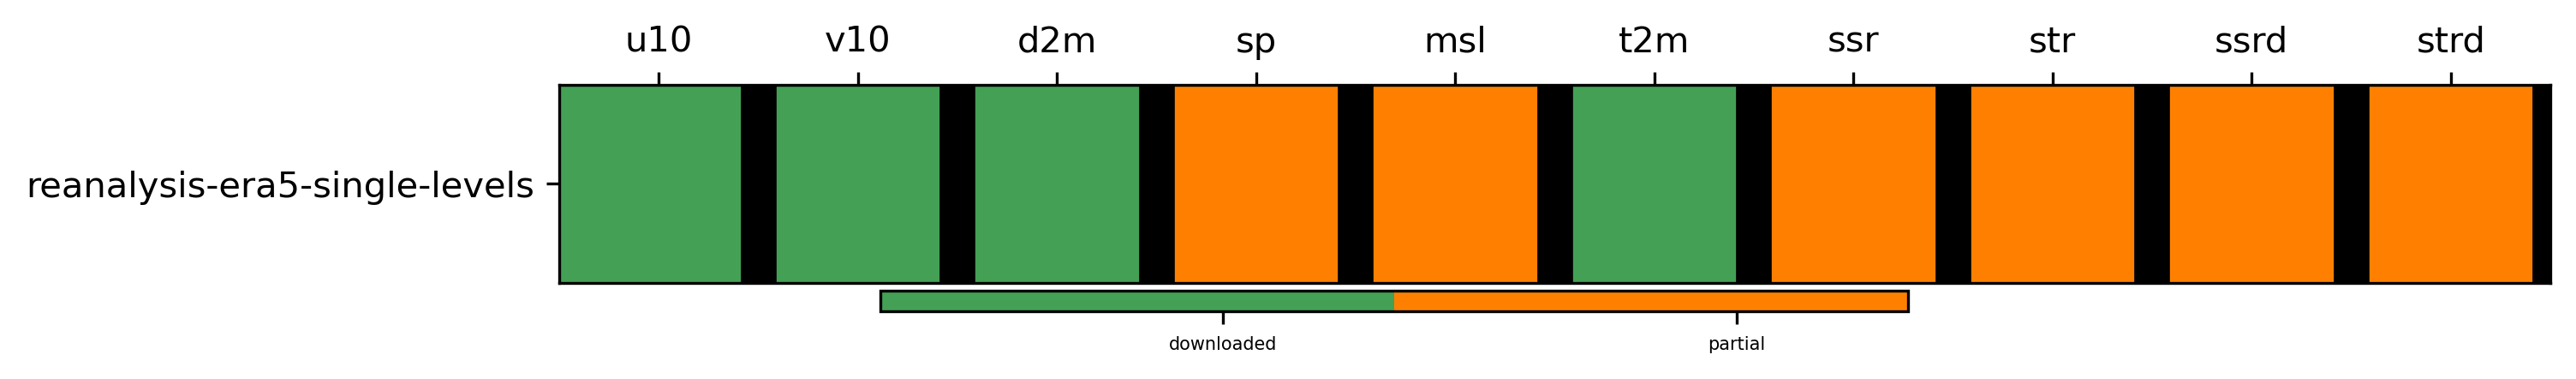
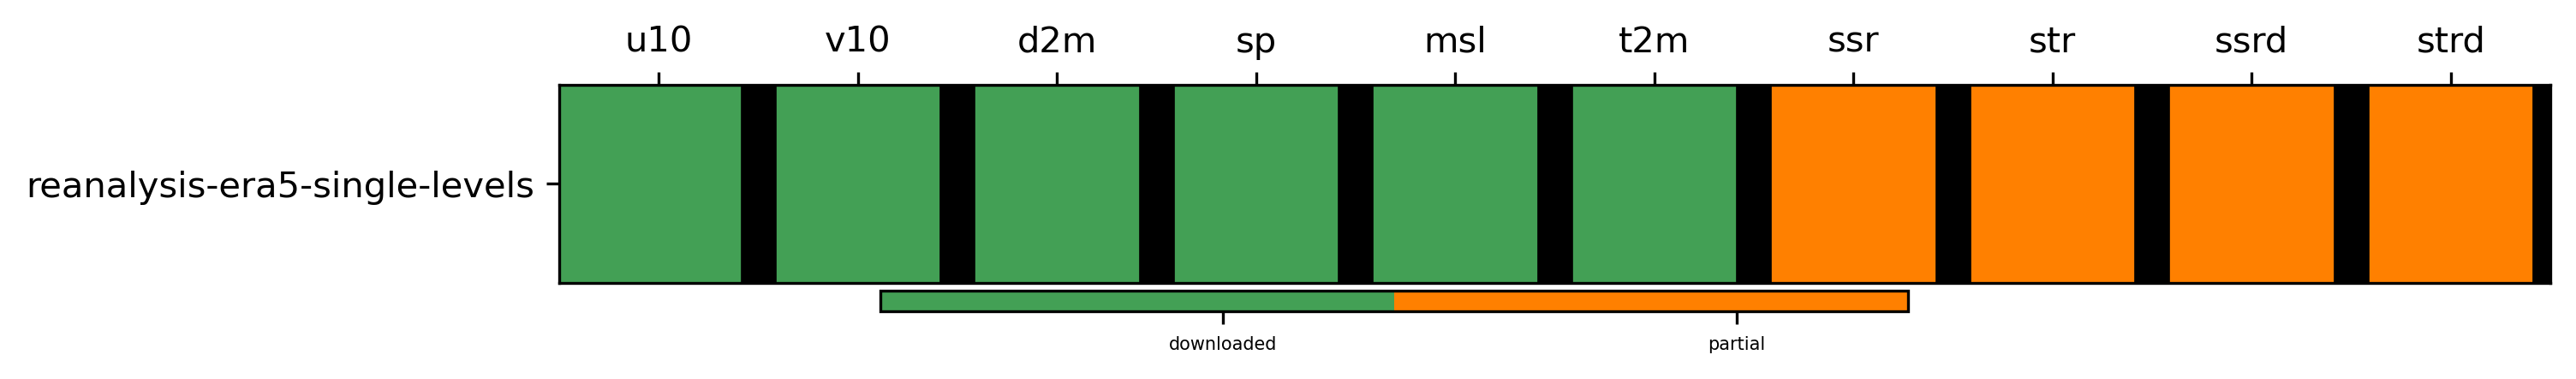
Add concise folder-level READMEs for main workflow directories and scripts modules (#6)
* Initial plan

* docs: add folder-level README documentation

Agent-Logs-Url: https://github.com/SantanderMetGroup/c3s-cds/sessions/aeccf1b4-fe02-44ff-af02-974fadbf1039

* Auto-update catalogues [skip ci]

---------

Changed region(s): [[0.4375, 0.2059, 0.625, 0.7647]]

diff --git a/scripts/README.md b/scripts/README.md
@@ -1,0 +1,16 @@
+# scripts
+
+This folder contains the operational pipeline scripts used to download, process, catalogue, and validate data.
+
+## Subfolders
+- `download/`: request execution and raw data download.
+- `standardization/`: variable harmonization to repository conventions.
+- `derived/`: computation of derived products.
+- `interpolation/`: remapping to target grids.
+- `catalogue/`: catalogue generation and summary artifacts.
+- `utilities/`: shared helpers (paths, logging, Dask/SLURM, dependencies, fixes).
+- `validations/`: automated quality checks used in CI and reporting.
+- `notebooks/`: exploratory examples.
+
+## Workflow fit
+Requests in `../requests/` point to scripts here; outputs are then consolidated in `catalogues/`, visualized in `docs/`, and checked in `validations/`.

diff --git a/scripts/utilities/README.md b/scripts/utilities/README.md
@@ -1,0 +1,15 @@
+# scripts/utilities
+
+Shared helpers used across download, derived, interpolation, catalogue, and validation scripts.
+
+## What it contains
+- Path and request helpers (`utils.py`, `utils_download.py`).
+- Logging and execution helpers (`logging_utils.py`, `run_with_memlog.py`).
+- Dask/SLURM helpers (`utils_dask_slurm.py`).
+- Derived-pipeline dependency and processing helpers (`derived_variable_dependencies.py`, `utils_derived_pipeline.py`).
+- Fix-oriented helpers (`utils_fixes.py`).
+- `create_folder_structure.py` to create the full directory tree from `requests/*.csv` (supports `--dry-run`) using:
+  `{base_path}/{product_type}/{dataset}/{temporal_resolution}/{interpolation}/{variable}/`.
+
+## Role in the workflow
+- Centralizes reusable logic so dataset-specific scripts stay focused on data operations.

diff --git a/docs/README.md b/docs/README.md
@@ -1,0 +1,13 @@
+# docs
+
+This folder contains the GitHub Pages site used to browse catalogues and dashboard summaries.
+
+## What it contains
+- Static pages (`index.html`, `dataset.html`, `catalogue-viewer.html`).
+- Frontend assets (`script.js`, `style.css`).
+- `data/`: exported catalogue CSV files used by the dashboard.
+- `img/`: rendered assets (heatmaps and validation figures).
+
+## Role in the workflow
+- Publishes a navigable view of catalogue status and dataset coverage.
+- Mirrors outputs generated from `catalogues/` and `validations/` for web visualization.

diff --git a/requests/README.md b/requests/README.md
@@ -1,0 +1,13 @@
+# requests
+
+This folder contains one CSV file per dataset/catalogue request used by the pipeline.
+
+## What it contains
+- Request inventory files (for example `reanalysis-era5-single-levels.csv`, `satellite-sea-level-global.csv`).
+- Per-variable rows with request and processing metadata (dataset, variable, output/input paths, product type, temporal resolution, interpolation, script).
+
+## Role in the workflow
+- Defines what to download from CDS (or related sources).
+- Drives directory creation (`scripts/utilities/create_folder_structure.py`).
+- Points to the processing scripts used for download, derived products, and interpolation.
+- Feeds catalogue and validation steps downstream.

diff --git a/provenance/README.md b/provenance/README.md
@@ -1,0 +1,11 @@
+# provenance
+
+This folder stores provenance JSON files for supported datasets.
+
+## What it contains
+- One JSON per dataset (for example `reanalysis-era5-single-levels.json`).
+- Variable-level metadata and source/provenance definitions.
+
+## Role in the workflow
+- Provides traceability for variables and derived fields.
+- Supports consistent metadata documentation across catalogues and validations.

diff --git a/scripts/catalogue/README.md b/scripts/catalogue/README.md
@@ -1,0 +1,11 @@
+# scripts/catalogue
+
+This folder contains scripts that build and summarize catalogues from downloaded/processed data.
+
+## What it contains
+- `produce_catalog.py`: reads request CSVs, checks NetCDF availability/date coverage in output folders, writes per-dataset catalogues and a consolidated `all_catalogues.csv`, and generates heatmaps for raw datasets.
+- `generate_resumen.py`: updates the catalogue overview markdown.
+- `catalog_executor.sh`: batch entrypoint used in scheduled execution environments.
+
+## Role in the workflow
+- Consolidates pipeline outputs into machine-readable catalogues and visual summaries consumed by `catalogues/` and `docs/`.

diff --git a/scripts/derived/README.md b/scripts/derived/README.md
@@ -1,0 +1,11 @@
+# scripts/derived
+
+This folder computes derived products that are not directly downloaded as final variables.
+
+## What it contains
+- Dataset-specific derived pipelines.
+- Shared scientific operations in `operations.py` (for example relative/specific humidity, surface wind, radiation components, MRT, UTCI).
+
+## Role in the workflow
+- Transforms raw variables into derived variables requested in `requests/*.csv`.
+- Produces `derived` outputs used by catalogue generation and validations.

diff --git a/scripts/download/README.md b/scripts/download/README.md
@@ -1,0 +1,11 @@
+# scripts/download
+
+Scripts in this folder download raw data from CDS (and related configured sources), typically one script per dataset.
+
+## What it contains
+- Dataset-specific download scripts (for example `reanalysis-era5-single-levels.py`).
+- `launch_all_requests_scripts.sh` to collect script paths from `requests/*.csv` and submit batch jobs with SLURM after activating `c3s-atlas`.
+
+## Role in the workflow
+- First operational step for raw data ingestion.
+- Produces data in the configured directory structure used by downstream standardization, derived, interpolation, and catalogue steps.

diff --git a/scripts/interpolation/README.md b/scripts/interpolation/README.md
@@ -1,0 +1,11 @@
+# scripts/interpolation
+
+Scripts in this folder remap variables from native grids to target grids.
+
+## What it contains
+- Dataset/grid-specific interpolation pipelines.
+- Configured target-grid references (via request metadata such as `interpolation` and optional interpolation files).
+
+## Role in the workflow
+- Generates interpolated products stored under `derived` with non-`native` interpolation labels (for example `gr006`, `gr100`).
+- Distinguishes interpolated outputs from calculated-native derived products.

diff --git a/fixes/README.md b/fixes/README.md
@@ -1,0 +1,10 @@
+# fixes
+
+This folder contains one-off repair utilities for exceptional data issues.
+
+## What it contains
+- Scripts for ad hoc corrections (for example dimension/name fixes and filename/date repairs).
+
+## Role in the workflow
+- Supports manual correction of problematic files or metadata inconsistencies.
+- Not part of the regular production pipeline; used only when specific fixes are needed.

diff --git a/scripts/validations/README.md b/scripts/validations/README.md
@@ -1,0 +1,10 @@
+# scripts/validations
+
+Automated validation scripts used to check data quality and support CI.
+
+## What it contains
+- `ci_cd_validations.py`: catalogue-driven outlier checks on NetCDF files with xarray/dask, with non-zero exit on failures.
+- `generate_timeseries.py`: helper generation of validation timeseries/diagnostic artifacts.
+
+## Role in the workflow
+- Provides automated quality gates and reproducible validation outputs for catalogues and dashboards.

diff --git a/validations/README.md b/validations/README.md
@@ -1,0 +1,10 @@
+# validations
+
+This folder contains validation scripts and generated validation outputs.
+
+## What it contains
+- Validation utilities/scripts (for example `maps.py`, `run_maps_mrt_example.py`, dataset-specific checks).
+- Dataset-level subfolders with generated figures (timeseries/maps) grouped by dataset.
+
+## Role in the workflow
+- Stores validation products used to compare datasets, inspect consistency, and support dashboard reporting.